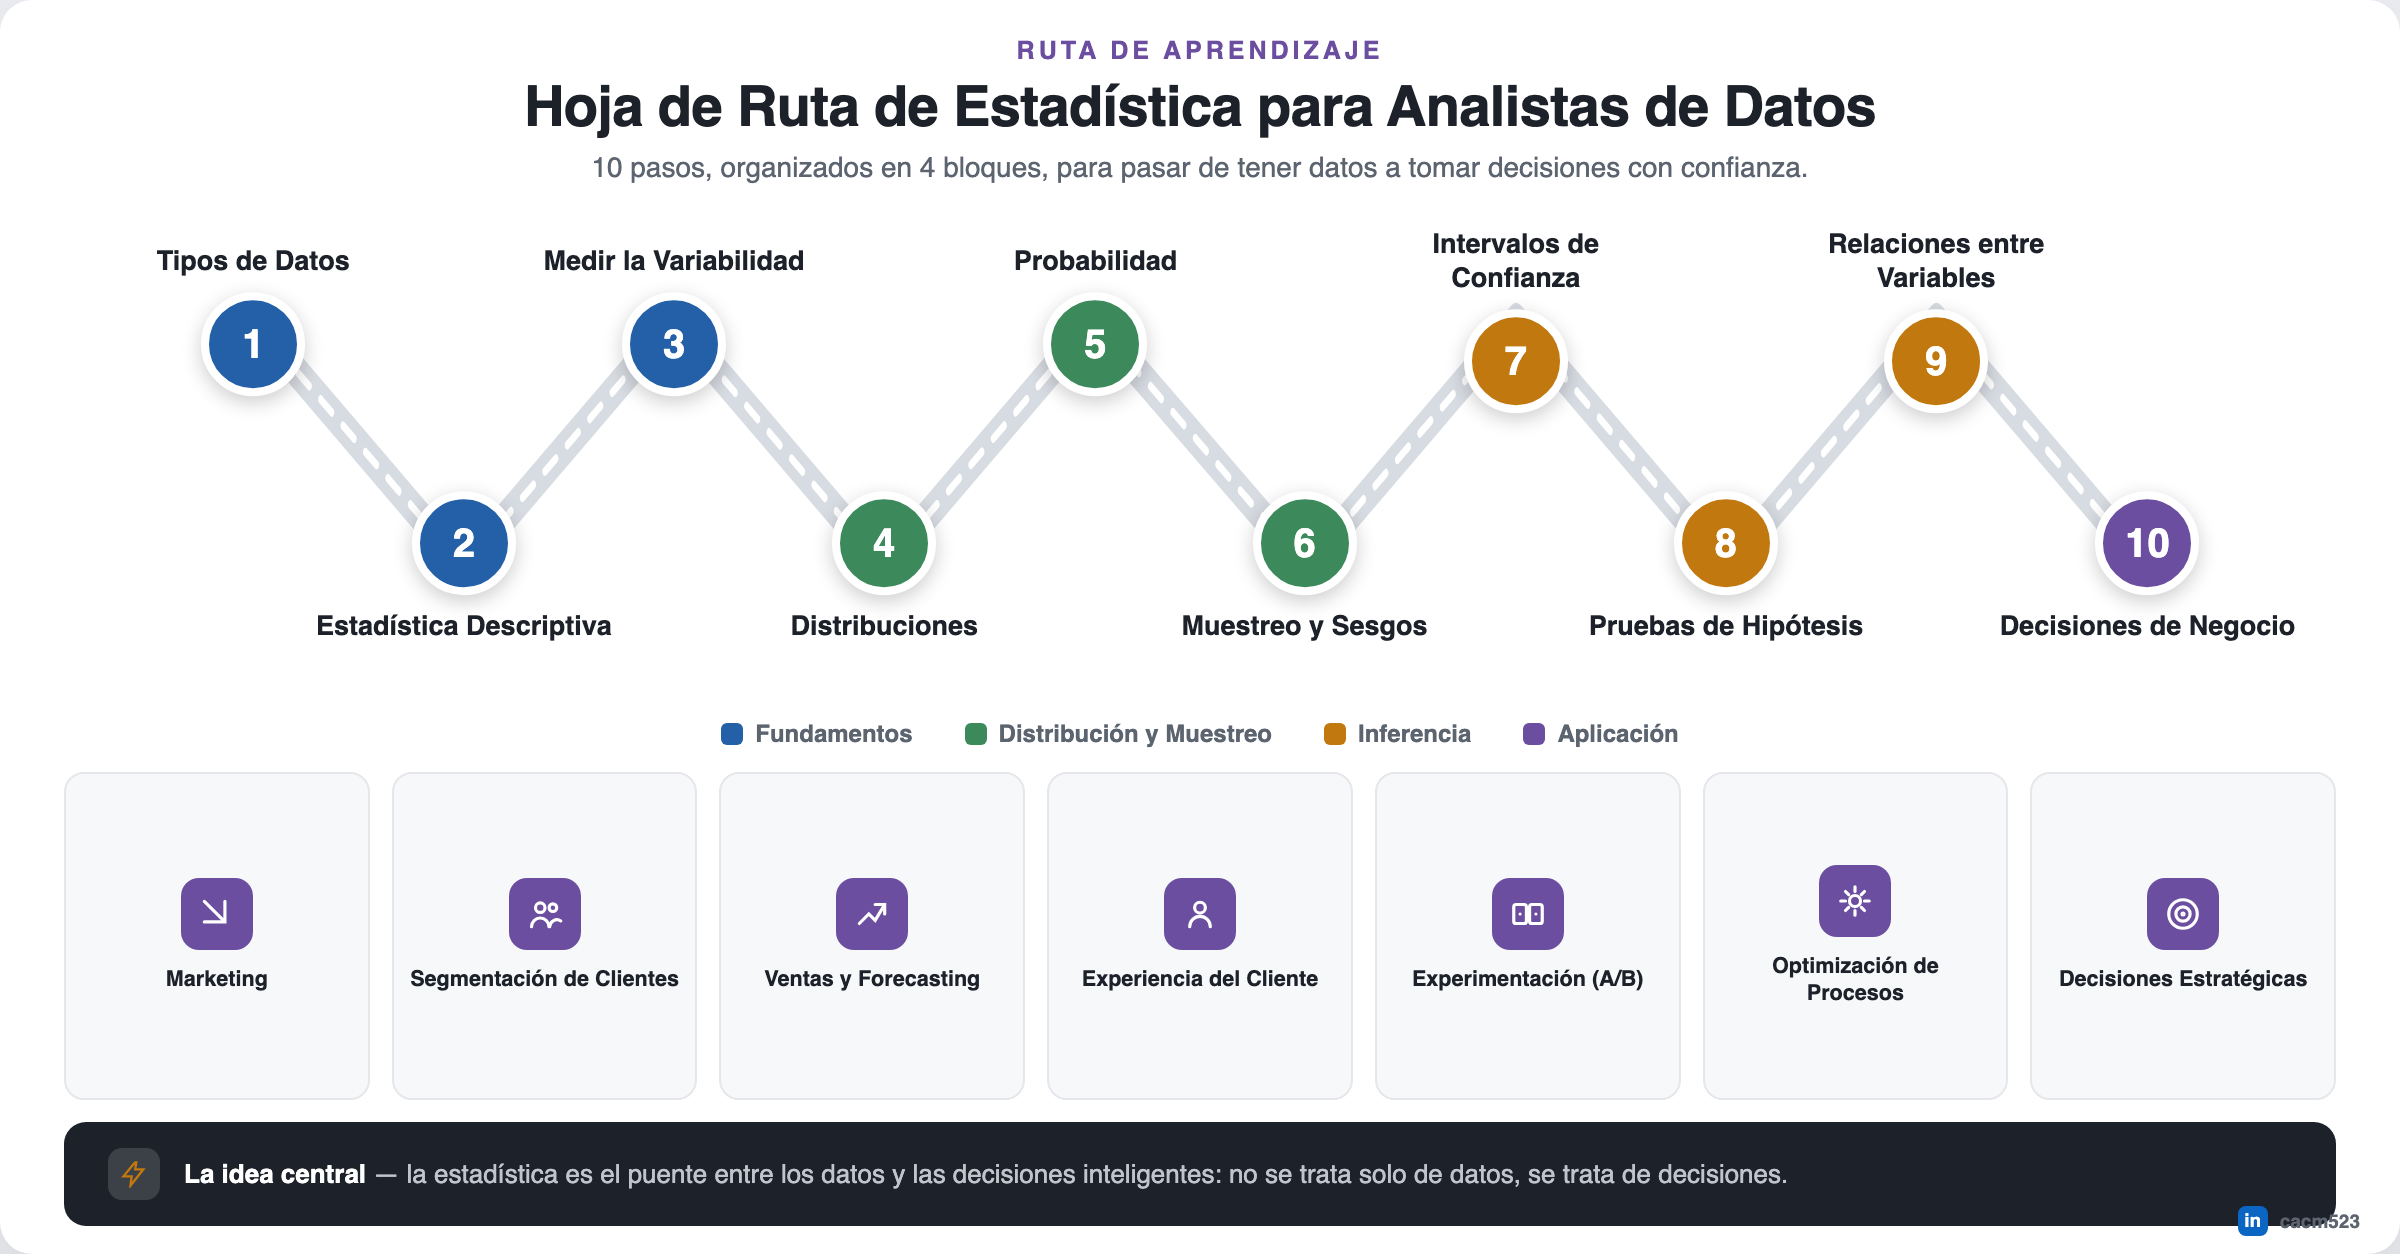
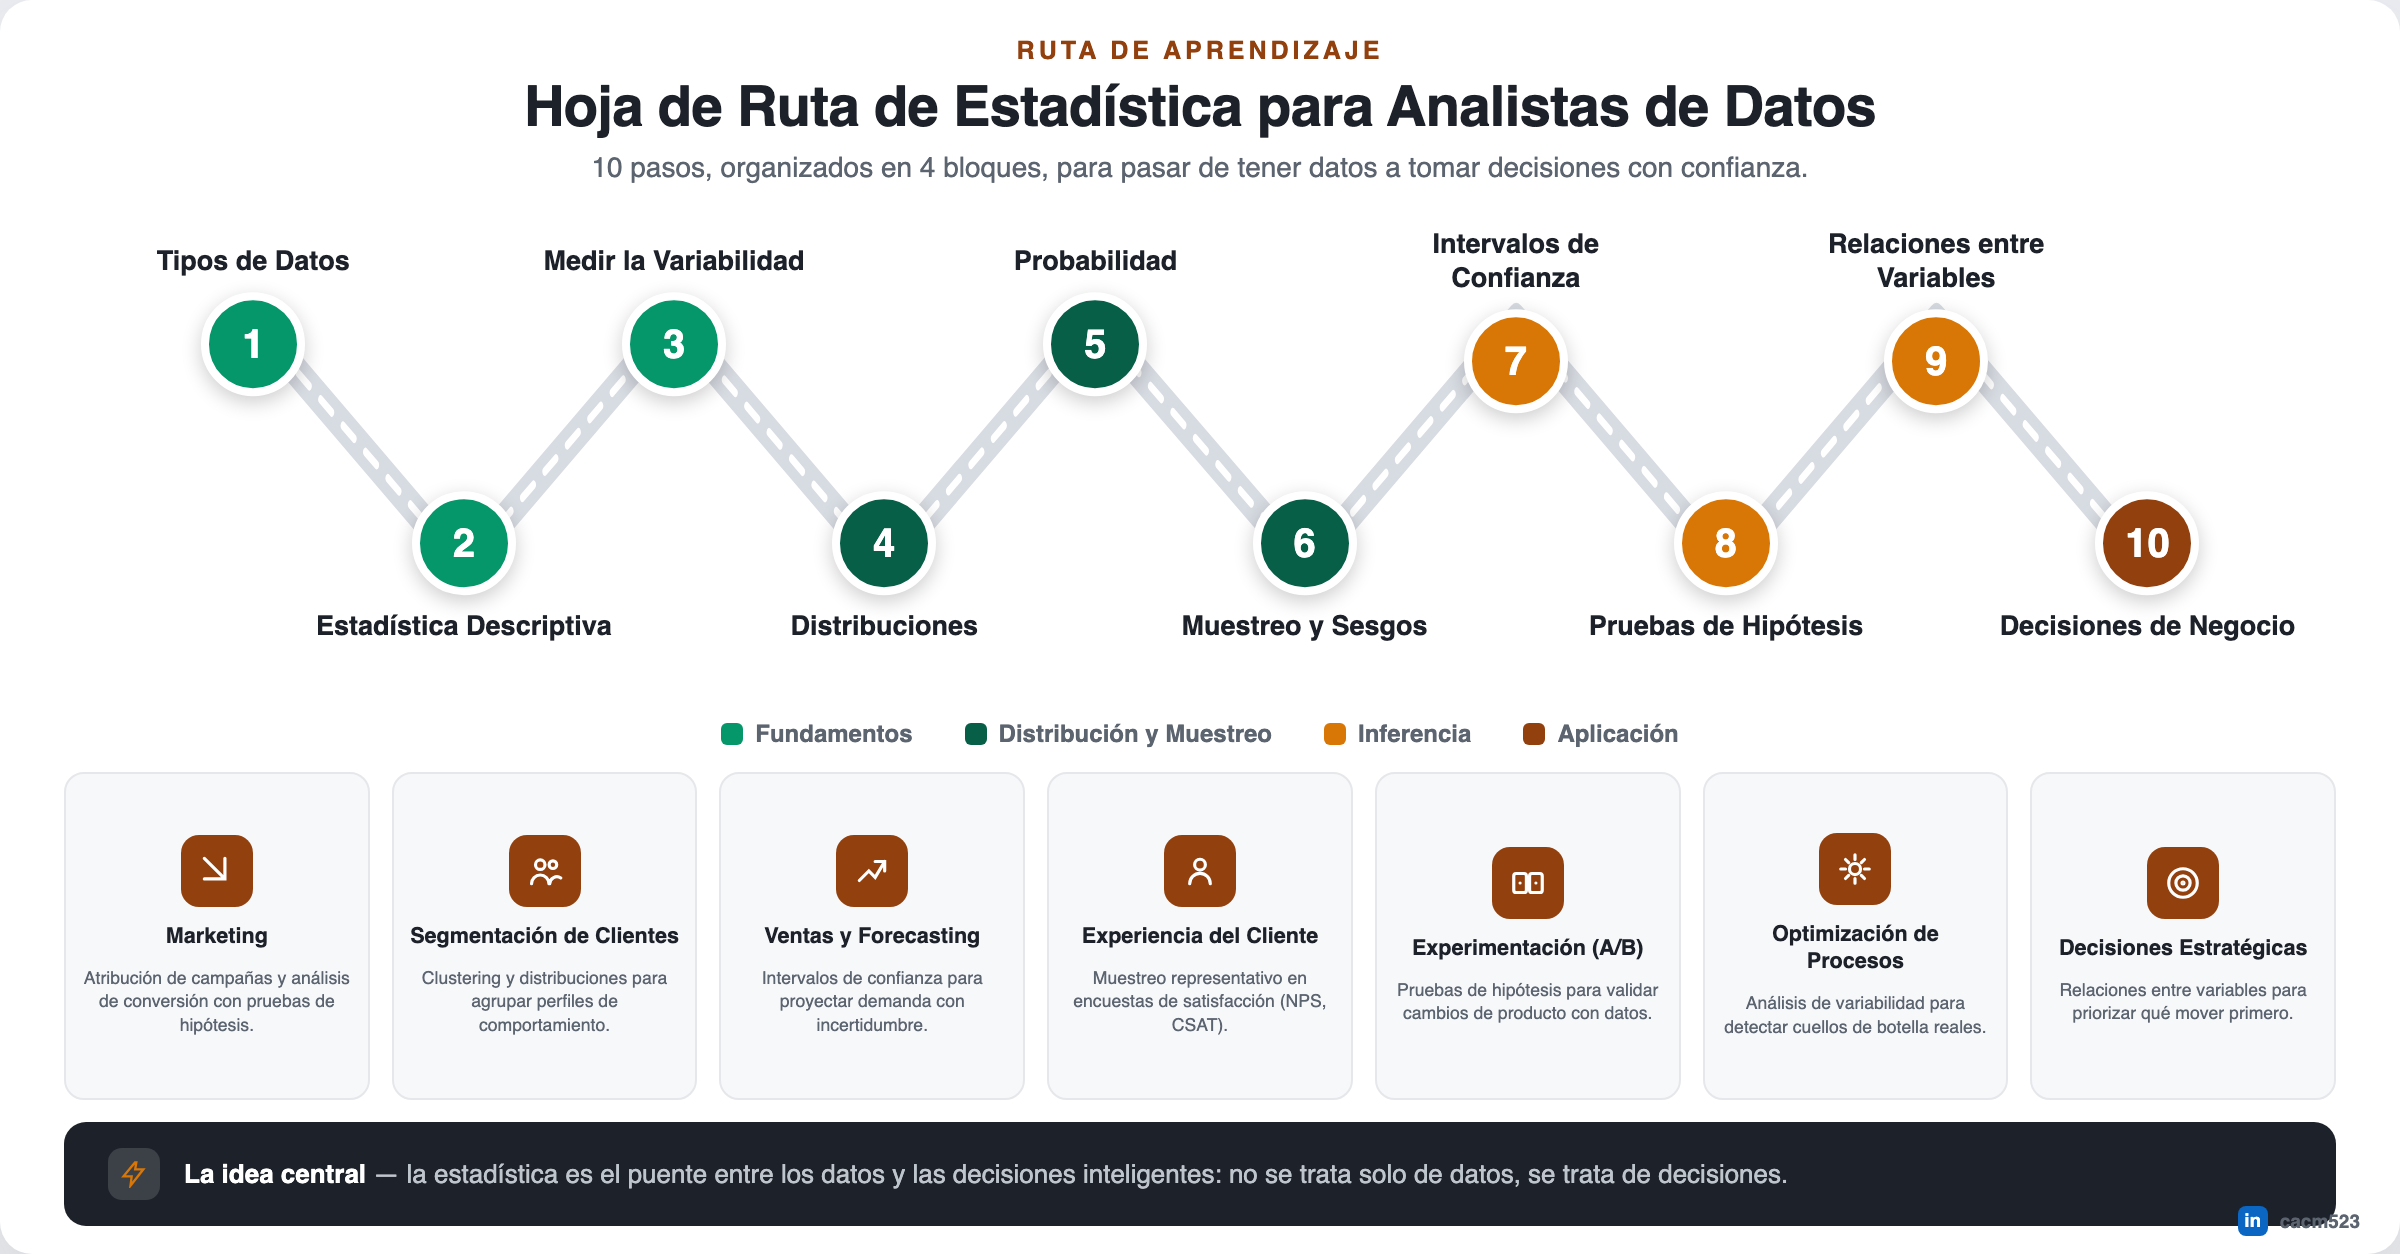
Tanda 7 (analisis-de-datos): corrige paleta fuera de sistema en 2 piezas
- conceptos-estadisticos-basicos: recolorea de burdeos/vino a verde+tierra del proyecto
- hoja-de-ruta-estadistica: recolorea de azul/verde/ámbar/púrpura genérico a paleta verde+tierra; agrega descripciones a las 7 tarjetas de aplicación que tenían espacio vacío
- terminos-ciencia-datos, correlacion-estadistica, graficos-excel: revisadas, ya cumplían el sistema de diseño, sin cambios

diff --git a/Construidos/Cultura_Datos/hoja-de-ruta-estadistica.html b/Construidos/Cultura_Datos/hoja-de-ruta-estadistica.html
@@ -6,7 +6,7 @@
 <meta name="viewport" content="width=device-width, initial-scale=1">
 <style>
   :root{
-    --blue:#2360A8; --green:#3C8A5C; --amber:#C1780E; --purple:#6B4EA0;
+    --blue:#059669; --green:#065F46; --amber:#D97706; --purple:#92400E;
     --ink:#1D2129; --muted:#5C6470; --line:#E5E7EA; --white:#FFFFFF; --paper:#F7F8FA;
   }
   *{box-sizing:border-box;}
@@ -53,6 +53,7 @@
   .app .icon{ width:36px; height:36px; border-radius:9px; background:var(--purple); color:#fff; display:flex; align-items:center; justify-content:center; }
   .app .icon svg{ width:19px; height:19px; }
   .app span{ font-size:10.8px; font-weight:700; color:var(--ink); line-height:1.25; }
+  .app p{ font-size:8.8px; font-weight:500; color:var(--muted); line-height:1.35; margin:0; }
 
   .ribbon{
     margin-top:11px; display:flex; align-items:center; gap:12px;
@@ -107,13 +108,13 @@
     </div>
 
     <div class="apps">
-      <div class="app"><div class="icon"><svg viewBox="0 0 24 24" fill="none" stroke="currentColor" stroke-width="2" stroke-linecap="round"><path d="M4 4l13 13M17 4v13h-13"/></svg></div><span>Marketing</span></div>
-      <div class="app"><div class="icon"><svg viewBox="0 0 24 24" fill="none" stroke="currentColor" stroke-width="2" stroke-linecap="round"><circle cx="9" cy="8" r="3"/><circle cx="17" cy="8" r="2.4"/><path d="M3.5 20a5.5 5.5 0 0 1 11 0M15 20a4.5 4.5 0 0 1 7-3.6"/></svg></div><span>Segmentación de Clientes</span></div>
-      <div class="app"><div class="icon"><svg viewBox="0 0 24 24" fill="none" stroke="currentColor" stroke-width="2" stroke-linecap="round"><path d="M4 18 10 12 14 16 20 6M14 6h6v6"/></svg></div><span>Ventas y Forecasting</span></div>
-      <div class="app"><div class="icon"><svg viewBox="0 0 24 24" fill="none" stroke="currentColor" stroke-width="2" stroke-linecap="round"><circle cx="12" cy="8" r="3.4"/><path d="M5.5 20a6.5 6.5 0 0 1 13 0"/></svg></div><span>Experiencia del Cliente</span></div>
-      <div class="app"><div class="icon"><svg viewBox="0 0 24 24" fill="none" stroke="currentColor" stroke-width="2" stroke-linecap="round"><rect x="3" y="6" width="8" height="12" rx="1.5"/><rect x="13" y="6" width="8" height="12" rx="1.5"/><path d="M7 12h0M17 12h0"/></svg></div><span>Experimentación (A/B)</span></div>
-      <div class="app"><div class="icon"><svg viewBox="0 0 24 24" fill="none" stroke="currentColor" stroke-width="2" stroke-linecap="round"><path d="M12 3v3M12 18v3M3 12h3M18 12h3M6 6l2 2M16 16l2 2M6 18l2-2M16 8l2-2"/><circle cx="12" cy="12" r="3.5"/></svg></div><span>Optimización de Procesos</span></div>
-      <div class="app"><div class="icon"><svg viewBox="0 0 24 24" fill="none" stroke="currentColor" stroke-width="2" stroke-linecap="round"><circle cx="12" cy="12" r="9"/><circle cx="12" cy="12" r="4.5"/><circle cx="12" cy="12" r="0.6" fill="currentColor"/></svg></div><span>Decisiones Estratégicas</span></div>
+      <div class="app"><div class="icon"><svg viewBox="0 0 24 24" fill="none" stroke="currentColor" stroke-width="2" stroke-linecap="round"><path d="M4 4l13 13M17 4v13h-13"/></svg></div><span>Marketing</span><p>Atribución de campañas y análisis de conversión con pruebas de hipótesis.</p></div>
+      <div class="app"><div class="icon"><svg viewBox="0 0 24 24" fill="none" stroke="currentColor" stroke-width="2" stroke-linecap="round"><circle cx="9" cy="8" r="3"/><circle cx="17" cy="8" r="2.4"/><path d="M3.5 20a5.5 5.5 0 0 1 11 0M15 20a4.5 4.5 0 0 1 7-3.6"/></svg></div><span>Segmentación de Clientes</span><p>Clustering y distribuciones para agrupar perfiles de comportamiento.</p></div>
+      <div class="app"><div class="icon"><svg viewBox="0 0 24 24" fill="none" stroke="currentColor" stroke-width="2" stroke-linecap="round"><path d="M4 18 10 12 14 16 20 6M14 6h6v6"/></svg></div><span>Ventas y Forecasting</span><p>Intervalos de confianza para proyectar demanda con incertidumbre.</p></div>
+      <div class="app"><div class="icon"><svg viewBox="0 0 24 24" fill="none" stroke="currentColor" stroke-width="2" stroke-linecap="round"><circle cx="12" cy="8" r="3.4"/><path d="M5.5 20a6.5 6.5 0 0 1 13 0"/></svg></div><span>Experiencia del Cliente</span><p>Muestreo representativo en encuestas de satisfacción (NPS, CSAT).</p></div>
+      <div class="app"><div class="icon"><svg viewBox="0 0 24 24" fill="none" stroke="currentColor" stroke-width="2" stroke-linecap="round"><rect x="3" y="6" width="8" height="12" rx="1.5"/><rect x="13" y="6" width="8" height="12" rx="1.5"/><path d="M7 12h0M17 12h0"/></svg></div><span>Experimentación (A/B)</span><p>Pruebas de hipótesis para validar cambios de producto con datos.</p></div>
+      <div class="app"><div class="icon"><svg viewBox="0 0 24 24" fill="none" stroke="currentColor" stroke-width="2" stroke-linecap="round"><path d="M12 3v3M12 18v3M3 12h3M18 12h3M6 6l2 2M16 16l2 2M6 18l2-2M16 8l2-2"/><circle cx="12" cy="12" r="3.5"/></svg></div><span>Optimización de Procesos</span><p>Análisis de variabilidad para detectar cuellos de botella reales.</p></div>
+      <div class="app"><div class="icon"><svg viewBox="0 0 24 24" fill="none" stroke="currentColor" stroke-width="2" stroke-linecap="round"><circle cx="12" cy="12" r="9"/><circle cx="12" cy="12" r="4.5"/><circle cx="12" cy="12" r="0.6" fill="currentColor"/></svg></div><span>Decisiones Estratégicas</span><p>Relaciones entre variables para priorizar qué mover primero.</p></div>
     </div>
 
     <div class="ribbon">

diff --git a/Construidos/Cultura_Datos/conceptos-estadisticos-basicos.html b/Construidos/Cultura_Datos/conceptos-estadisticos-basicos.html
@@ -6,22 +6,22 @@
 <meta name="viewport" content="width=device-width, initial-scale=1">
 <style>
   :root{
-    --wine:#7A2E42; --wine-dark:#5A2130; --wine-pale:#F5E9EC; --line:#EDE0E3;
-    --sage:#5F7A5E; --sage-pale:#EAF0E9;
-    --ink:#241C20; --muted:#665B60; --white:#FFFFFF;
+    --wine:#047857; --wine-dark:#064e3b; --wine-pale:#ECFDF5; --line:#D1FAE5;
+    --sage:#B45309; --sage-pale:#FEF3C7;
+    --ink:#0F172A; --muted:#475569; --white:#FFFFFF;
   }
   *{box-sizing:border-box;}
   html,body{margin:0;padding:0;}
   body{
     min-height:627px; display:flex; align-items:center; justify-content:center;
-    padding:32px 16px; background:#F1E9EB;
+    padding:32px 16px; background:#ECFDF5;
     font-family: Inter, -apple-system, "Segoe UI", Roboto, Helvetica, Arial, sans-serif;
   }
   .canvas-wrap{ width:100%; max-width:1200px; overflow-x:auto; }
   .canvas{
     position:relative; width:1200px; height:627px; margin:0 auto;
     background:var(--white);
-    border-radius:16px; box-shadow:0 20px 50px rgba(90,33,48,0.16); overflow:hidden;
+    border-radius:16px; box-shadow:0 20px 50px rgba(6,78,59,0.16); overflow:hidden;
     padding:18px 32px 12px; color:var(--ink);
     display:flex; flex-direction:column;
   }
